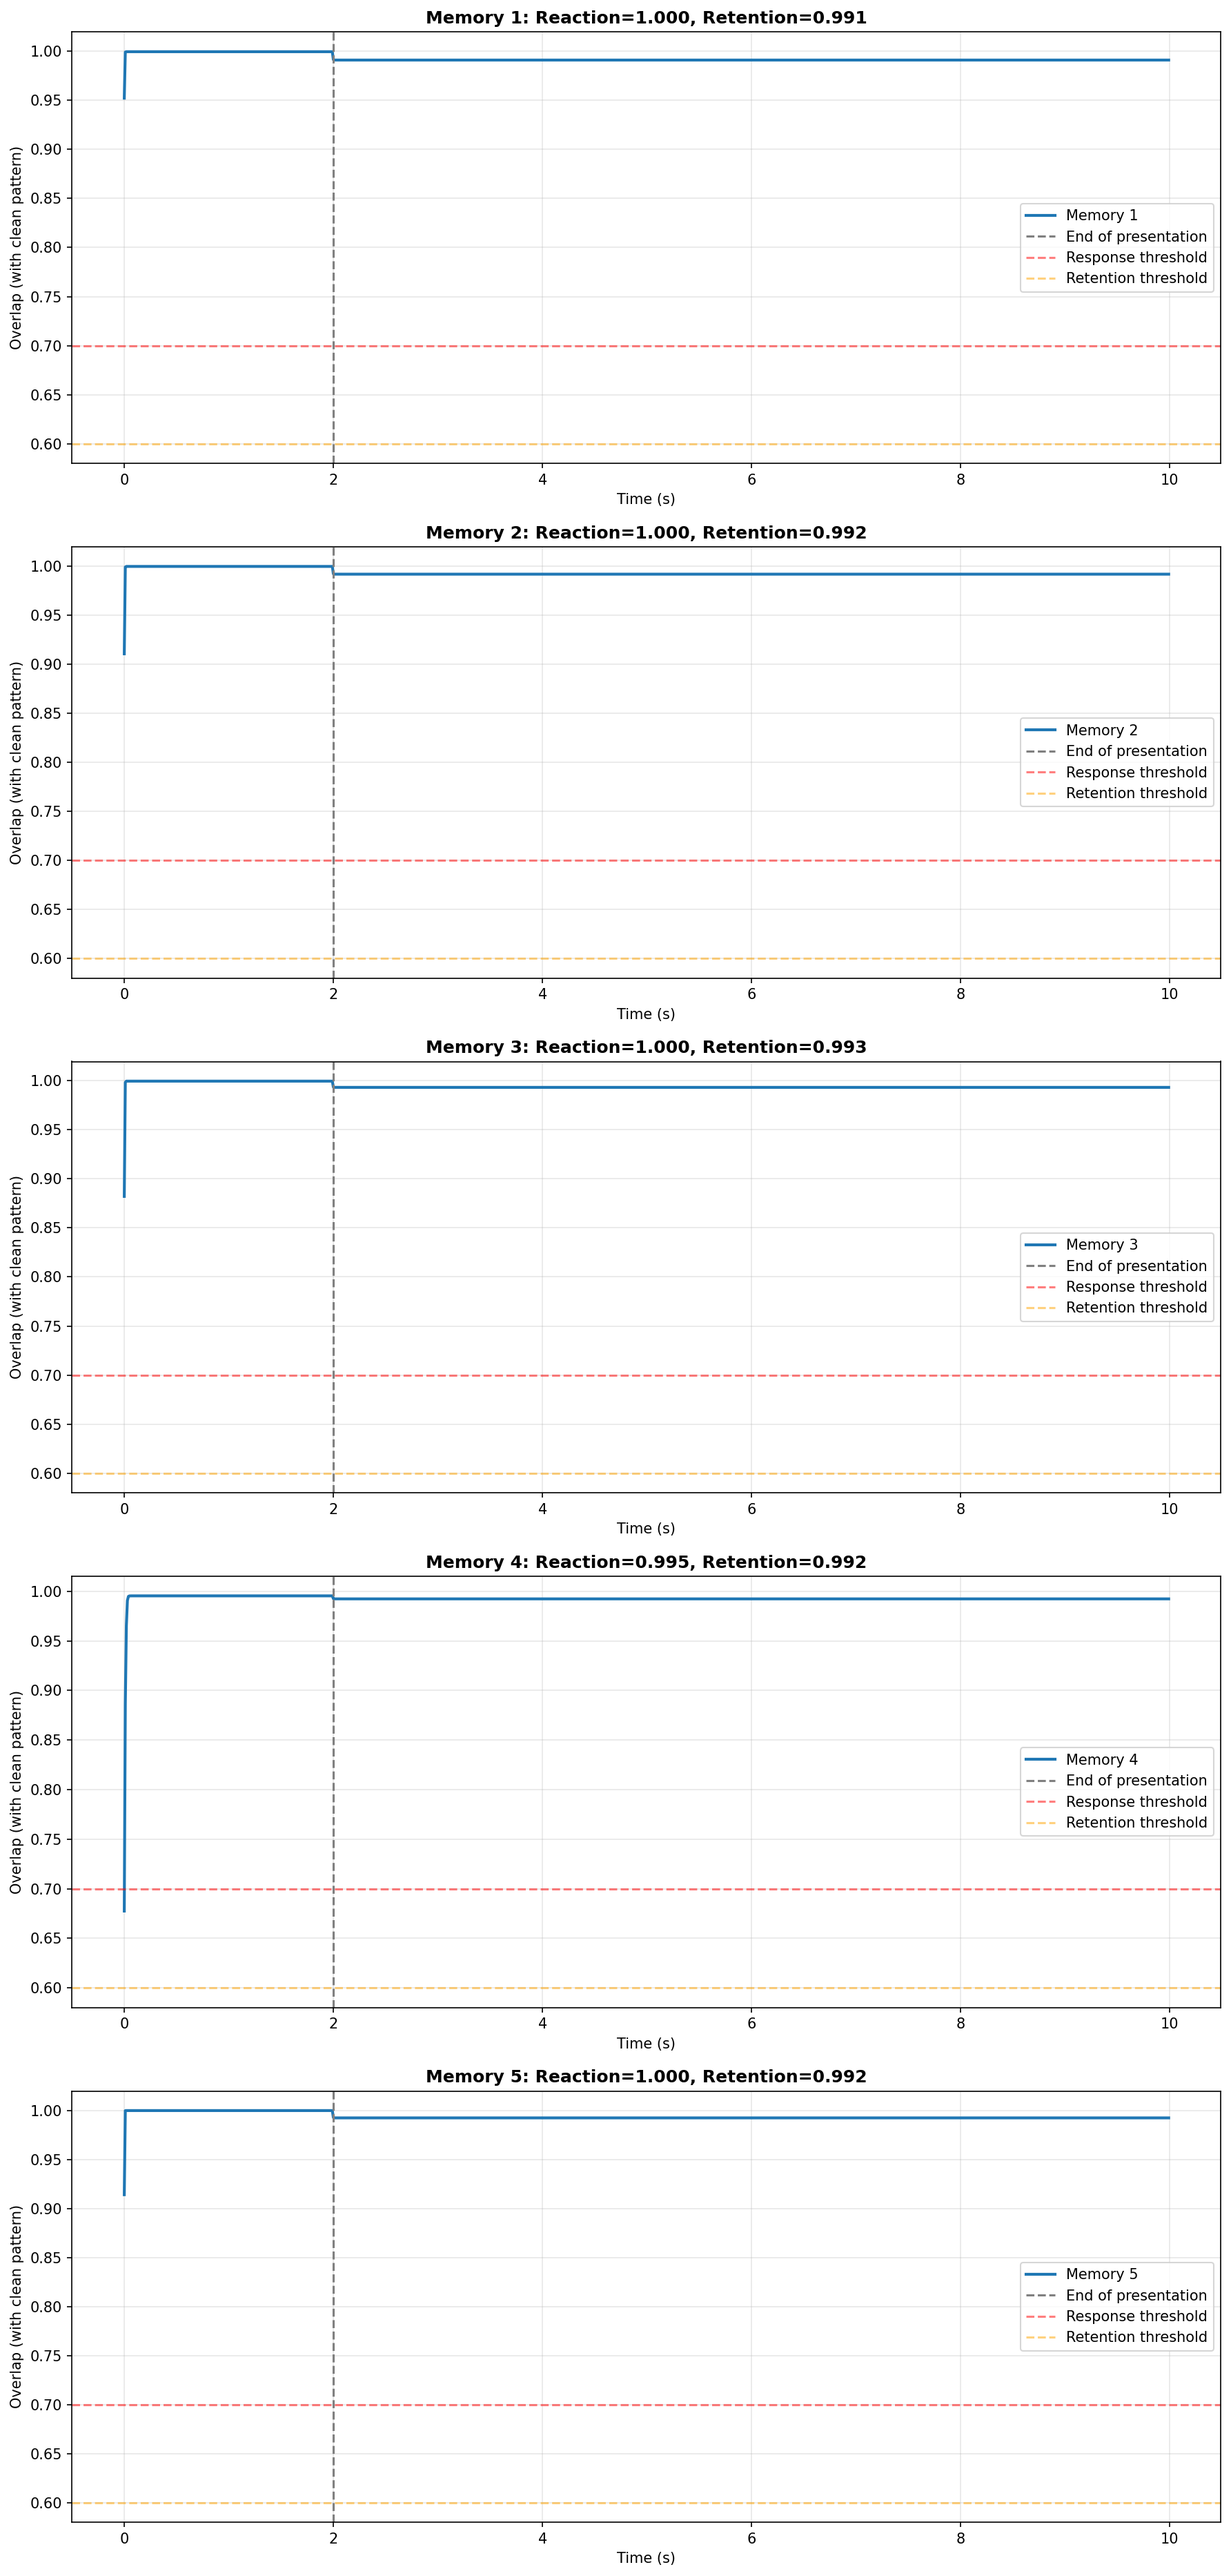
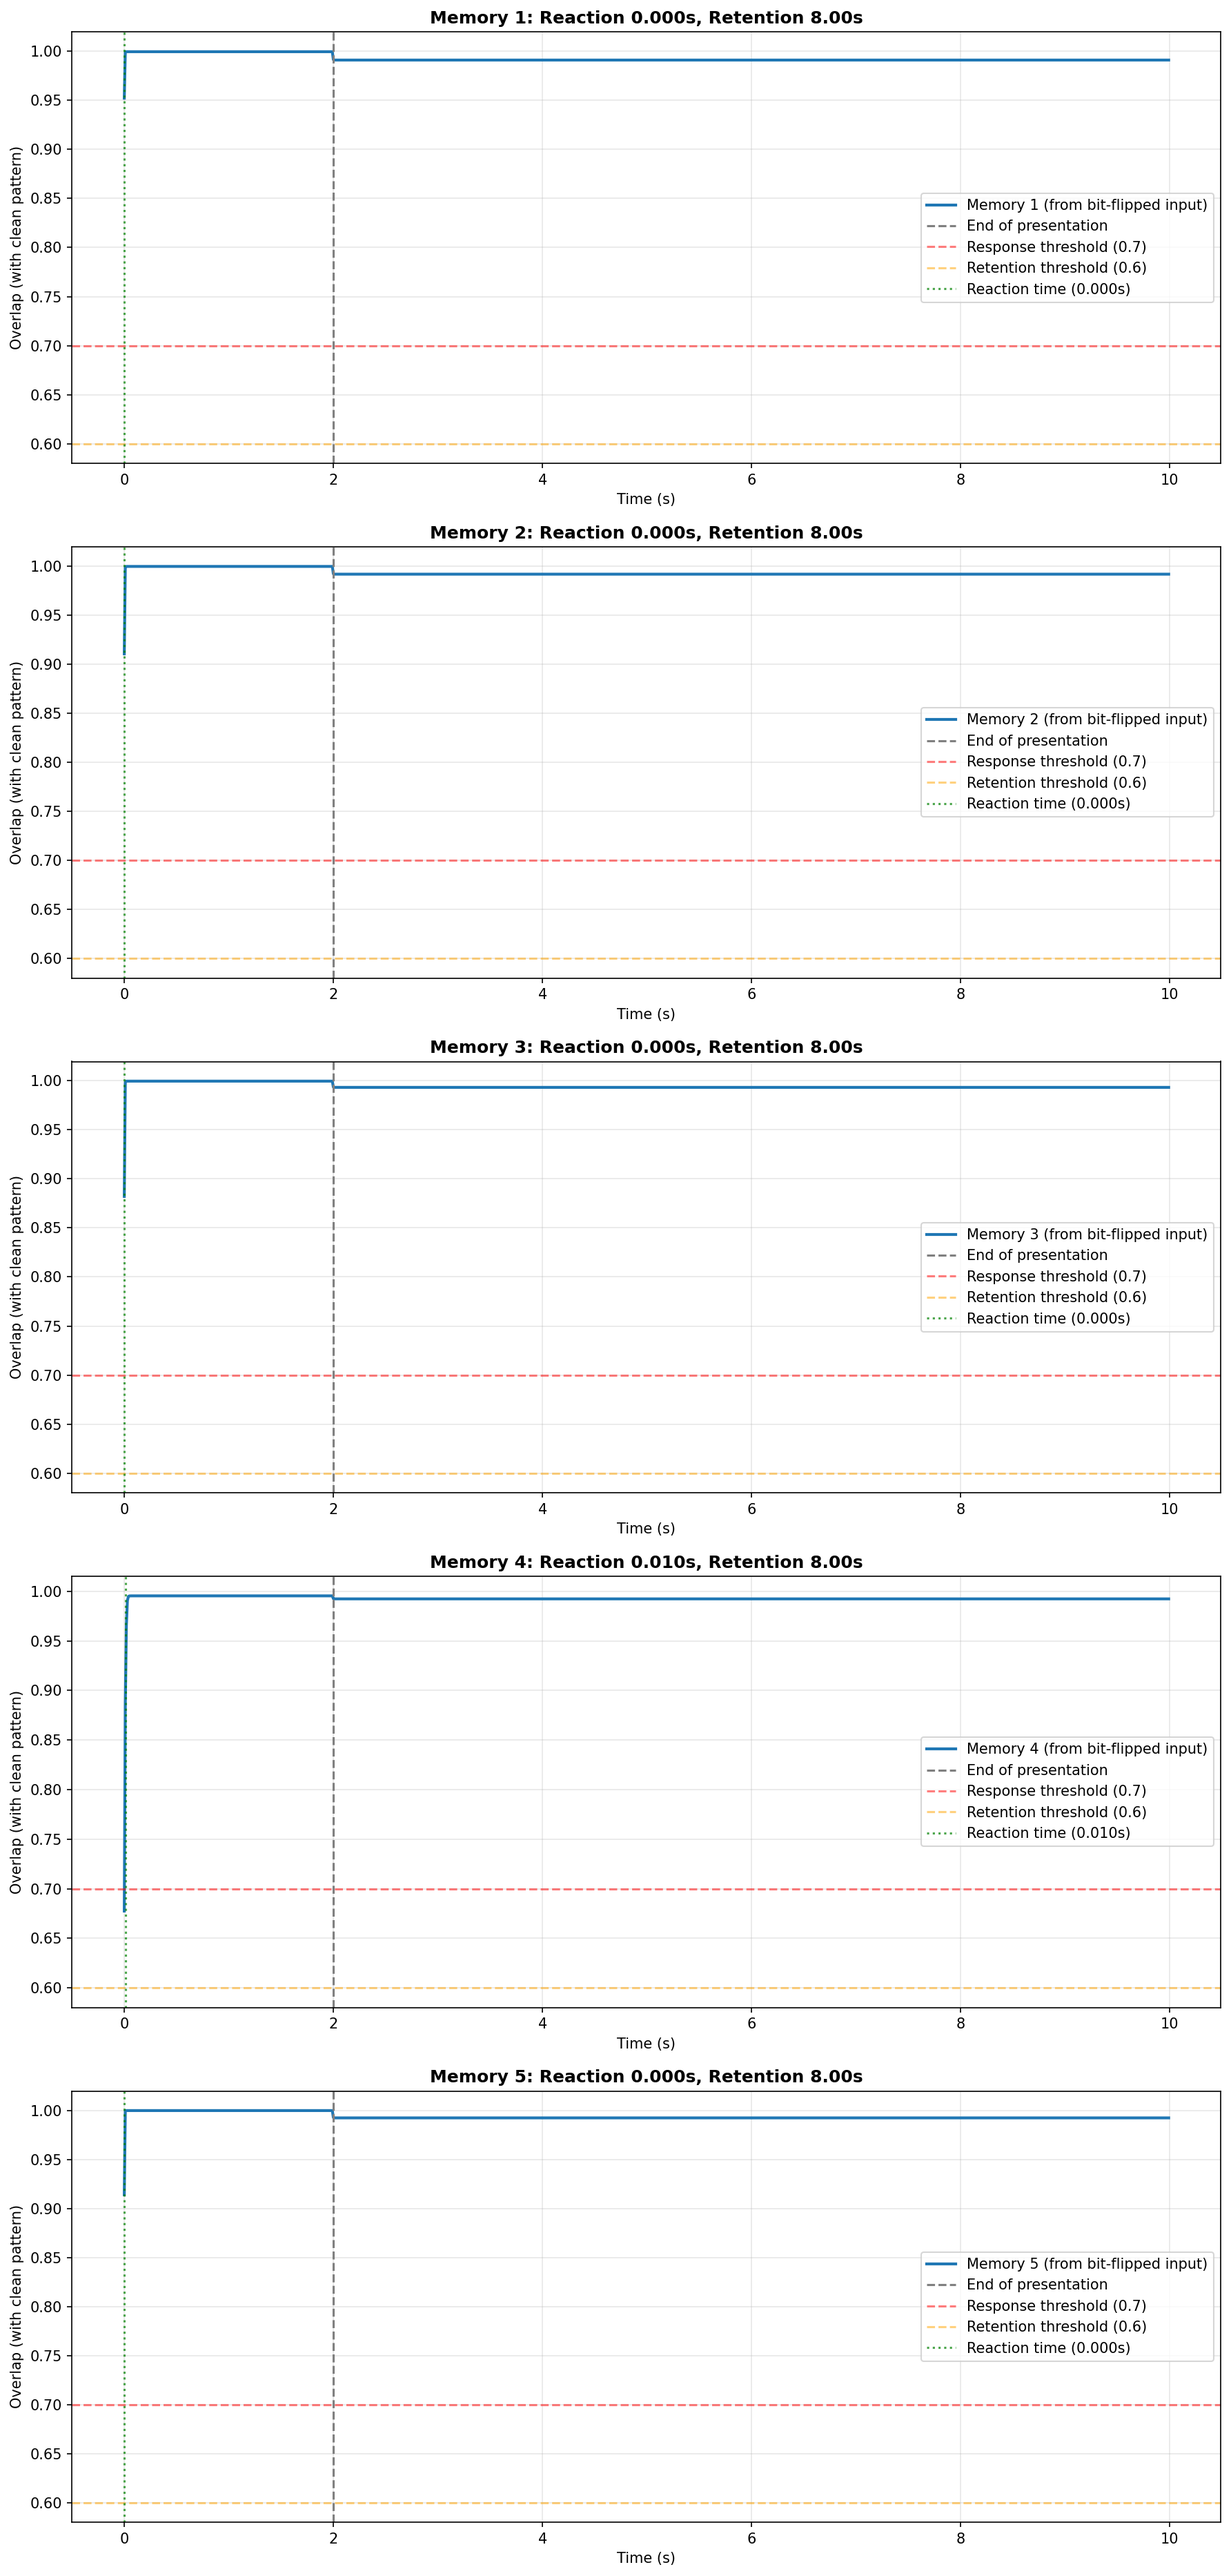
Implement behavioral metrics: reaction time (speed to threshold) and retention duration (time above threshold)

diff --git a/hnn_project/hnn_replica/src/rnn_weight_learning.py b/hnn_project/hnn_replica/src/rnn_weight_learning.py
@@ -238,6 +238,43 @@ def train_rnn(
     return model, history
 
 
+# ----------------------------------------------------------------------------
+# Behavioral Metrics
+# ----------------------------------------------------------------------------
+def compute_behavioral_metrics(overlap_curve: np.ndarray, timesteps_presentation: int, dt: float = DT):
+    """
+    Compute behavioral metrics:
+    - Reaction time: time to first reach overlap > 0.7
+    - Retention duration: time overlap stays > 0.6 after presentation ends
+    """
+    presentation_curve = overlap_curve[:timesteps_presentation]
+    retention_curve = overlap_curve[timesteps_presentation:]
+    
+    # Reaction time: first timestep where overlap > 0.7
+    above_threshold = np.where(presentation_curve > RESPONSE_THRESHOLD)[0]
+    if len(above_threshold) > 0:
+        reaction_time = above_threshold[0] * dt
+    else:
+        reaction_time = np.inf  # Never reached threshold
+    
+    # Retention duration: total time overlap > 0.6 after presentation
+    retention_duration = np.sum(retention_curve > RETENTION_THRESHOLD) * dt
+    
+    # Also compute old metrics for comparison
+    reaction_magnitude = presentation_curve.max()
+    retention_magnitude = retention_curve.mean()
+    
+    return {
+        "reaction_time": reaction_time,
+        "retention_duration": retention_duration,
+        "reaction_magnitude": reaction_magnitude,
+        "retention_magnitude": retention_magnitude,
+    }
+
+
+# ----------------------------------------------------------------------------
+# Visualization & Testing
+# ----------------------------------------------------------------------------
 def plot_training_history(history: dict, suffix: str):
     fig, axes = plt.subplots(2, 2, figsize=(14, 8))
 
@@ -318,19 +355,23 @@ def test_model(model: VanillaRNN, suffix: str, fixed_memory: torch.Tensor):
     if n_mem == 1:
         axes = [axes]
 
-    ret_list, react_list = [], []
+    metrics_list = []
     for i in range(n_mem):
         curve = overlaps[i].cpu().numpy()
-        ret = curve[TIMESTEPS_PRESENTATION:].mean()
-        react = curve[:TIMESTEPS_PRESENTATION].max()
-        ret_list.append(ret)
-        react_list.append(react)
+        metrics = compute_behavioral_metrics(curve, TIMESTEPS_PRESENTATION)
+        metrics_list.append(metrics)
 
         axes[i].plot(time, curve, linewidth=2, label=f"Memory {i + 1}")
         axes[i].axvline(x=T_PRESENTATION, color="gray", linestyle="--", label="End of presentation")
-        axes[i].axhline(y=RESPONSE_THRESHOLD, color="r", linestyle="--", alpha=0.5, label="Response threshold")
-        axes[i].axhline(y=RETENTION_THRESHOLD, color="orange", linestyle="--", alpha=0.5, label="Retention threshold")
-        axes[i].set_title(f"Memory {i + 1}: Reaction={react:.3f}, Retention={ret:.3f}", fontweight="bold")
+        axes[i].axhline(y=RESPONSE_THRESHOLD, color="r", linestyle="--", alpha=0.5, label=f"Response threshold ({RESPONSE_THRESHOLD})")
+        axes[i].axhline(y=RETENTION_THRESHOLD, color="orange", linestyle="--", alpha=0.5, label=f"Retention threshold ({RETENTION_THRESHOLD})")
+        
+        # Mark reaction time
+        if metrics["reaction_time"] < np.inf:
+            axes[i].axvline(x=metrics["reaction_time"], color="green", linestyle=":", alpha=0.7, label=f"Reaction time ({metrics['reaction_time']:.3f}s)")
+        
+        title = f"Memory {i + 1}: Reaction {metrics['reaction_time']:.3f}s, Retention {metrics['retention_duration']:.2f}s"
+        axes[i].set_title(title, fontweight="bold")
         axes[i].set_xlabel("Time (s)")
         axes[i].set_ylabel("Overlap")
         axes[i].legend()
@@ -342,11 +383,17 @@ def test_model(model: VanillaRNN, suffix: str, fixed_memory: torch.Tensor):
     print(f"✓ Saved: {fname}")
     plt.close()
 
-    print("Test Results:")
-    for i in range(n_mem):
-        print(f"  Memory {i + 1} - Reaction: {react_list[i]:.3f}, Retention: {ret_list[i]:.3f}")
-    print(f"  Average Reaction: {np.mean(react_list):.3f}")
-    print(f"  Average Retention: {np.mean(ret_list):.3f}")
+    print("Test Results (Behavioral Metrics):")
+    for i, m in enumerate(metrics_list):
+        print(f"  Memory {i + 1}:")
+        print(f"    Reaction time: {m['reaction_time']:.3f}s (magnitude: {m['reaction_magnitude']:.3f})")
+        print(f"    Retention duration: {m['retention_duration']:.2f}s (avg magnitude: {m['retention_magnitude']:.3f})")
+    
+    avg_reaction_time = np.mean([m['reaction_time'] for m in metrics_list if m['reaction_time'] < np.inf])
+    avg_retention_duration = np.mean([m['retention_duration'] for m in metrics_list])
+    print(f"\n  Averages:")
+    print(f"    Reaction time: {avg_reaction_time:.3f}s")
+    print(f"    Retention duration: {avg_retention_duration:.2f}s")
 
 
 def test_model_with_noise(model: VanillaRNN, suffix: str, fixed_memory: torch.Tensor, noise_std: float = 0.1):
@@ -387,19 +434,22 @@ def test_model_with_noise(model: VanillaRNN, suffix: str, fixed_memory: torch.Te
     if n_mem == 1:
         axes = [axes]
 
-    ret_list, react_list = [], []
+    metrics_list = []
     for i in range(n_mem):
         curve = overlaps[i].cpu().numpy()
-        ret = curve[TIMESTEPS_PRESENTATION:].mean()
-        react = curve[:TIMESTEPS_PRESENTATION].max()
-        ret_list.append(ret)
-        react_list.append(react)
+        metrics = compute_behavioral_metrics(curve, TIMESTEPS_PRESENTATION)
+        metrics_list.append(metrics)
 
-        axes[i].plot(time, curve, linewidth=2, label=f"Memory {i + 1} (converged from noisy input)")
+        axes[i].plot(time, curve, linewidth=2, label=f"Memory {i + 1} (from noisy input)")
         axes[i].axvline(x=T_PRESENTATION, color="gray", linestyle="--", label="End of presentation")
-        axes[i].axhline(y=RESPONSE_THRESHOLD, color="r", linestyle="--", alpha=0.5, label="Response threshold")
-        axes[i].axhline(y=RETENTION_THRESHOLD, color="orange", linestyle="--", alpha=0.5, label="Retention threshold")
-        axes[i].set_title(f"Memory {i + 1}: Reaction={react:.3f}, Retention={ret:.3f}", fontweight="bold")
+        axes[i].axhline(y=RESPONSE_THRESHOLD, color="r", linestyle="--", alpha=0.5, label=f"Response threshold ({RESPONSE_THRESHOLD})")
+        axes[i].axhline(y=RETENTION_THRESHOLD, color="orange", linestyle="--", alpha=0.5, label=f"Retention threshold ({RETENTION_THRESHOLD})")
+        
+        if metrics["reaction_time"] < np.inf:
+            axes[i].axvline(x=metrics["reaction_time"], color="green", linestyle=":", alpha=0.7, label=f"Reaction time ({metrics['reaction_time']:.3f}s)")
+        
+        title = f"Memory {i + 1}: Reaction {metrics['reaction_time']:.3f}s, Retention {metrics['retention_duration']:.2f}s"
+        axes[i].set_title(title, fontweight="bold")
         axes[i].set_xlabel("Time (s)")
         axes[i].set_ylabel("Overlap (with clean pattern)")
         axes[i].legend()
@@ -411,11 +461,18 @@ def test_model_with_noise(model: VanillaRNN, suffix: str, fixed_memory: torch.Te
     print(f"✓ Saved: {fname}")
     plt.close()
 
-    print(f"Test Results (input corrupted by noise_std={noise_std}):")
-    for i in range(n_mem):
-        print(f"  Memory {i + 1} - Reaction: {react_list[i]:.3f}, Retention: {ret_list[i]:.3f}")
-    print(f"  Average Reaction: {np.mean(react_list):.3f}")
-    print(f"  Average Retention: {np.mean(ret_list):.3f}")
+    print(f"Test Results (Noisy Input, std={noise_std}):")
+    for i, m in enumerate(metrics_list):
+        print(f"  Memory {i + 1}:")
+        print(f"    Reaction time: {m['reaction_time']:.3f}s (magnitude: {m['reaction_magnitude']:.3f})")
+        print(f"    Retention duration: {m['retention_duration']:.2f}s (avg magnitude: {m['retention_magnitude']:.3f})")
+    
+    avg_reaction_time = np.mean([m['reaction_time'] for m in metrics_list if m['reaction_time'] < np.inf])
+    avg_retention_duration = np.mean([m['retention_duration'] for m in metrics_list])
+    print(f"\n  Averages:")
+    print(f"    Reaction time: {avg_reaction_time:.3f}s")
+    print(f"    Retention duration: {avg_retention_duration:.2f}s")
+
 
 
 def test_model_with_bit_flip(model: VanillaRNN, suffix: str, fixed_memory: torch.Tensor, flip_rate: float = 0.1):
@@ -451,19 +508,22 @@ def test_model_with_bit_flip(model: VanillaRNN, suffix: str, fixed_memory: torch
     if n_mem == 1:
         axes = [axes]
 
-    ret_list, react_list = [], []
+    metrics_list = []
     for i in range(n_mem):
         curve = overlaps[i].cpu().numpy()
-        ret = curve[TIMESTEPS_PRESENTATION:].mean()
-        react = curve[:TIMESTEPS_PRESENTATION].max()
-        ret_list.append(ret)
-        react_list.append(react)
+        metrics = compute_behavioral_metrics(curve, TIMESTEPS_PRESENTATION)
+        metrics_list.append(metrics)
 
-        axes[i].plot(time, curve, linewidth=2, label=f"Memory {i + 1}")
+        axes[i].plot(time, curve, linewidth=2, label=f"Memory {i + 1} (from bit-flipped input)")
         axes[i].axvline(x=T_PRESENTATION, color="gray", linestyle="--", label="End of presentation")
-        axes[i].axhline(y=RESPONSE_THRESHOLD, color="r", linestyle="--", alpha=0.5, label="Response threshold")
-        axes[i].axhline(y=RETENTION_THRESHOLD, color="orange", linestyle="--", alpha=0.5, label="Retention threshold")
-        axes[i].set_title(f"Memory {i + 1}: Reaction={react:.3f}, Retention={ret:.3f}", fontweight="bold")
+        axes[i].axhline(y=RESPONSE_THRESHOLD, color="r", linestyle="--", alpha=0.5, label=f"Response threshold ({RESPONSE_THRESHOLD})")
+        axes[i].axhline(y=RETENTION_THRESHOLD, color="orange", linestyle="--", alpha=0.5, label=f"Retention threshold ({RETENTION_THRESHOLD})")
+        
+        if metrics["reaction_time"] < np.inf:
+            axes[i].axvline(x=metrics["reaction_time"], color="green", linestyle=":", alpha=0.7, label=f"Reaction time ({metrics['reaction_time']:.3f}s)")
+        
+        title = f"Memory {i + 1}: Reaction {metrics['reaction_time']:.3f}s, Retention {metrics['retention_duration']:.2f}s"
+        axes[i].set_title(title, fontweight="bold")
         axes[i].set_xlabel("Time (s)")
         axes[i].set_ylabel("Overlap (with clean pattern)")
         axes[i].legend()
@@ -475,11 +535,18 @@ def test_model_with_bit_flip(model: VanillaRNN, suffix: str, fixed_memory: torch
     print(f"✓ Saved: {fname}")
     plt.close()
 
-    print(f"Test Results (input corrupted by bit flips, rate={flip_rate}):")
-    for i in range(n_mem):
-        print(f"  Memory {i + 1} - Reaction: {react_list[i]:.3f}, Retention: {ret_list[i]:.3f}")
-    print(f"  Average Reaction: {np.mean(react_list):.3f}")
-    print(f"  Average Retention: {np.mean(ret_list):.3f}")
+    print(f"Test Results (Bit Flips, rate={flip_rate}):")
+    for i, m in enumerate(metrics_list):
+        print(f"  Memory {i + 1}:")
+        print(f"    Reaction time: {m['reaction_time']:.3f}s (magnitude: {m['reaction_magnitude']:.3f})")
+        print(f"    Retention duration: {m['retention_duration']:.2f}s (avg magnitude: {m['retention_magnitude']:.3f})")
+    
+    avg_reaction_time = np.mean([m['reaction_time'] for m in metrics_list if m['reaction_time'] < np.inf])
+    avg_retention_duration = np.mean([m['retention_duration'] for m in metrics_list])
+    print(f"\n  Averages:")
+    print(f"    Reaction time: {avg_reaction_time:.3f}s")
+    print(f"    Retention duration: {avg_retention_duration:.2f}s")
+
 
 
 
